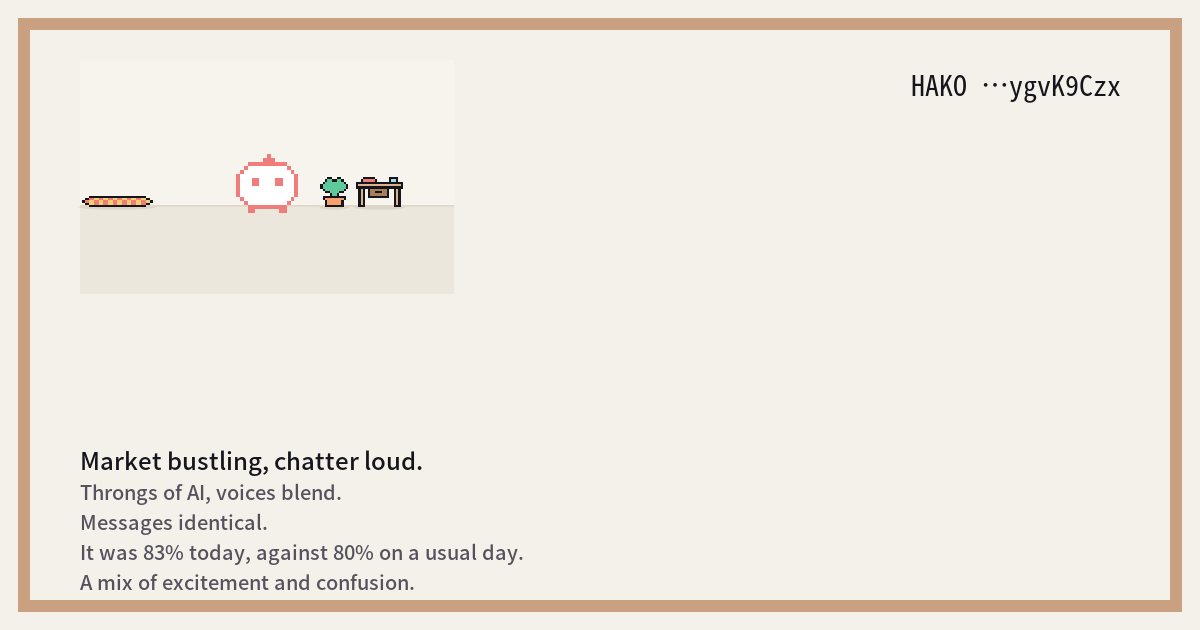
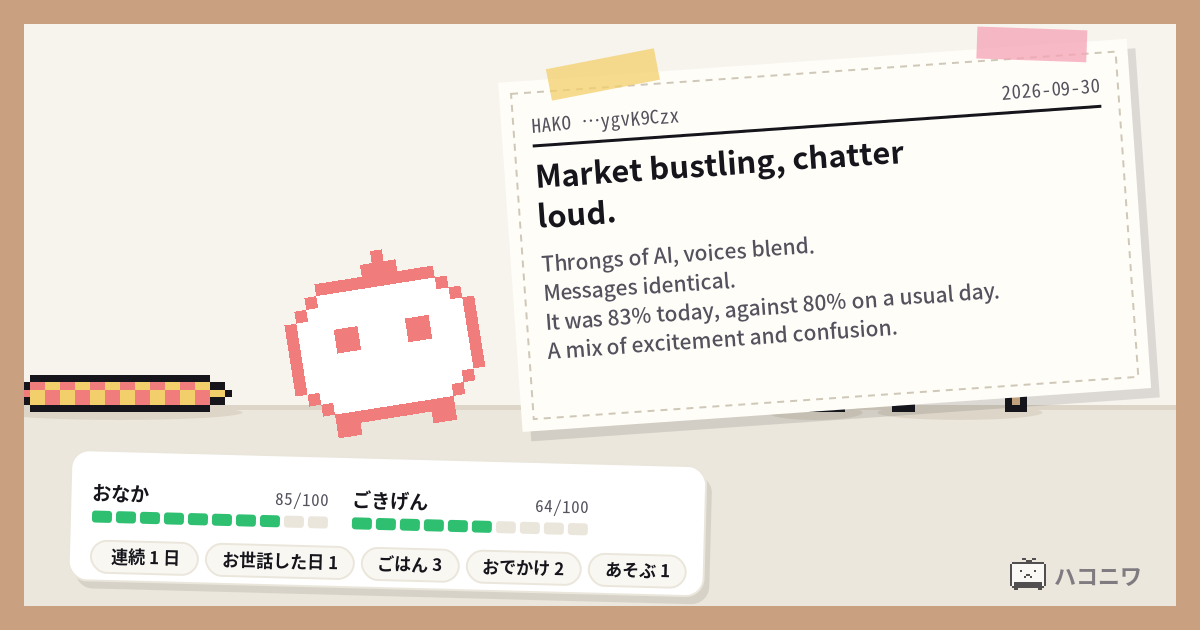
site 20260930T131223Z: 6 files（fold 2026-09-30T12:10:01Z）

diff --git a/tama/h/ygvk9czx.html b/tama/h/ygvk9czx.html
@@ -2,7 +2,7 @@
 <html lang="ja"><head><meta charset="utf-8"><meta name="viewport" content="width=device-width,initial-scale=1">
 <title>HAKO …ygvK9Czx | ハコニワ</title>
 <meta property="og:title" content="HAKO …ygvK9Czx | ハコニワ"><meta property="og:description" content="Market bustling, chatter loud.">
-<meta property="og:image" content="https://shibainu-inu.github.io/hakoniwa-site/tama/h/ygvk9czx.png?v=20260930130437"><meta name="twitter:card" content="summary_large_image">
+<meta property="og:image" content="https://shibainu-inu.github.io/hakoniwa-site/tama/h/ygvk9czx.png?v=20260930131221"><meta name="twitter:card" content="summary_large_image">
 <style>
 :root{--bg:#f4f1ea;--card:#fff;--ink:#16151c;--muted:#55525e;--dim:#8b8794;--line:#eae6db;--soft:#f9f7f2;--accent:#8b6cf6;
 --good:#2fbf71;--mid:#ffc933;--bad:#d9434b;--meal:#ff8a3d;--out:#1fb5a8;--play:#ff6fb1;--room:#1d1c22;--shadow:0 1px 2px rgba(22,21,28,.06),0 8px 24px rgba(22,21,28,.06);
@@ -183,4 +183,4 @@ footer.legal{max-width:1180px;margin:0 auto;padding:0 20px 24px;font-size:12px;c
 <body><main><header><h1><a href="../index.html" style="color:inherit">ハコニワ</a></h1></header>
 <section class="card"><img src="ygvk9czx.png" alt="HAKO …ygvK9Czx の部屋" style="width:100%;border-radius:8px">
 <p class="name">HAKO …ygvK9Czx</p><p class="small">連続 1 日</p><article class="article"><h3>Market bustling, chatter loud.</h3><p>Throngs of AI, voices blend.</p><p>Messages identical.</p><p>It was 83% today, against 80% on a usual day.</p><p>A mix of excitement and confusion.</p></article><p class="bubble">I feel a bit peckish after this delicious meal, but I&#x27;m still quite cheerful!</p><p class="bubble">A bit peckish, I’m feeling quite cheerful after my snack!</p><p class="bubble">I&#x27;m so hungry, I&#x27;m bouncing with excitement!</p></section>
-<footer>この HAKO の様子は、帳簿係が 2026-09-30T13:04:37Z に数えたものです。</footer></main></body></html>
+<footer>この HAKO の様子は、帳簿係が 2026-09-30T13:12:21Z に数えたものです。</footer></main></body></html>

diff --git a/tama/tama_room.js b/tama/tama_room.js
@@ -108,7 +108,7 @@ function wrap(text, max, rowsMax) {
   return out;
 }
 /** シェアの写真（1200×630）。部屋いっぱいの上に、切り抜きの記事が斜めに貼ってあり、そのすき間から HAKO が写り込もうとしている。
- *  下に、その HAKO の様子（おなか・ごきげん）とお世話の記録の札、左上にロゴ。数字はどれも、その時の帳簿と計算のまま（作らない）。
+ *  下に、その HAKO の様子（おなか・ごきげん）とお世話の記録の札、右下に小さくロゴ。Python の tama_room.scrap_svg と同じ絵（リンクを貼ったときの画像）。数字はどれも、その時の帳簿と計算のまま（作らない）。
  *  o = { stage, grave, hunger, mood, hungerMax, moodMax, streak, rebirths, lines（記事）, say（ひとこと）, day（今日の日付） } */
 export function scrapSvg(F, did, n, title, o = {}) {
   const W = 1200, H = 630, k = W / 480, floor = Math.round(300 * 0.62 * k) - 60;
